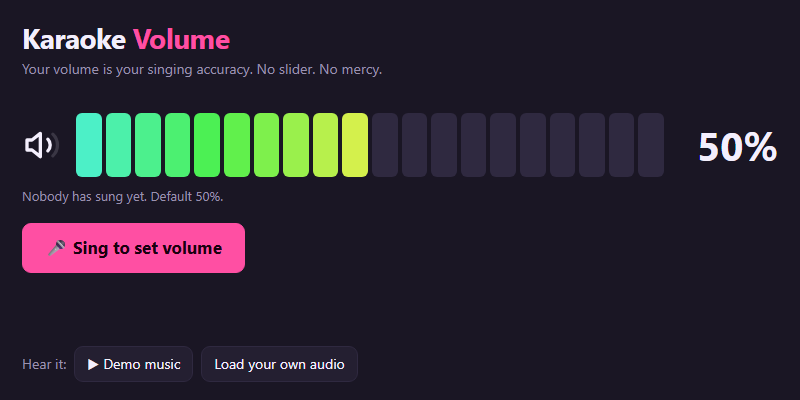
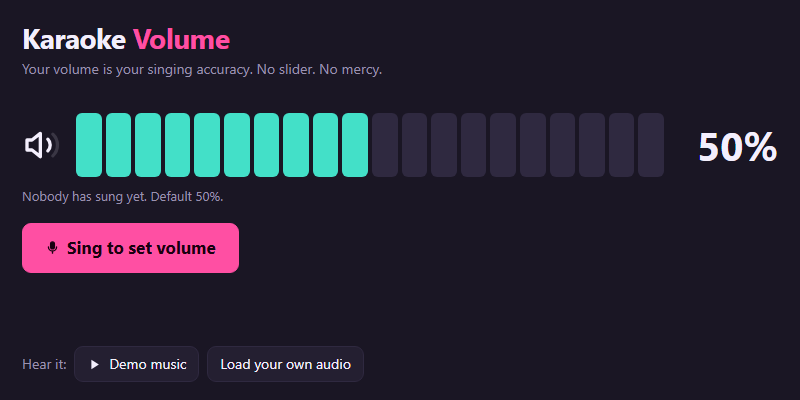
Flatten the visual style
Solid colours instead of the gradient volume bar and per-note hues,
no glows or coloured shadows, 4-12px corners instead of pill shapes,
SVG icons instead of emoji/symbol glyphs, and no subtext under the
song menu items.

Changed region(s): [[0.125, 0.27, 0.4688, 0.45], [0.0625, 0.54, 0.3125, 0.69], [0.0938, 0.9, 0.4375, 0.93]]

diff --git a/index.html b/index.html
@@ -33,6 +33,9 @@ button.small{padding:2px 7px;font-size:11px;border-radius:6px}
 .volrow svg{flex:none;width:40px;height:40px}
 .bar{flex:1;display:flex;gap:4px;cursor:not-allowed;min-width:0}
 .seg{flex:1;height:64px;border-radius:6px;background:var(--line);transition:background .25s}
+.seg.on{background:var(--accent2)}
+.ic{width:15px;height:15px;flex:none;vertical-align:-2px;margin-right:7px}
+button,.btn{display:inline-flex;align-items:center}
 .pct{flex:none;width:100px;text-align:right;font-size:40px;font-weight:750;font-variant-numeric:tabular-nums}
 .volmsg{margin-top:10px;color:var(--mute);font-size:13px;min-height:1.4em}
 .shake{animation:shake .35s}
@@ -40,10 +43,12 @@ button.small{padding:2px 7px;font-size:11px;border-radius:6px}
 .bigbtn{font-size:17px;padding:12px 22px}
 /* picker */
 .songs{flex:1;overflow:auto;display:grid;grid-template-columns:repeat(4,1fr);gap:8px;margin:12px 0 10px;align-content:start;padding-right:2px}
-.song{position:relative;text-align:left;padding:9px 11px;border-radius:10px;background:var(--panel2);border:1px solid var(--line);cursor:pointer;min-height:62px}
+.song{position:relative;text-align:left;padding:9px 11px;border-radius:10px;background:var(--panel2);border:1px solid var(--line);cursor:pointer;min-height:54px;display:flex;align-items:center}
+.song.has-tools{padding-top:26px;align-items:flex-start}
 .song b{display:block;font-size:13px;line-height:1.25}
 .song small{color:var(--mute);font-size:11px}
-.song.sel{border-color:var(--accent);box-shadow:0 0 0 1px var(--accent) inset}
+.song.sel{border:2px solid var(--accent);padding:8px 10px}
+.song.sel.has-tools{padding-top:25px}
 .song.add{border-style:dashed;background:transparent}
 .song .tools{position:absolute;top:5px;right:5px;display:flex;gap:3px}
 .opts{display:flex;flex-wrap:wrap;gap:14px;color:var(--mute);font-size:12px;align-items:center}
@@ -57,12 +62,12 @@ canvas{display:block;width:100%;height:205px;border-radius:10px;background:#120f
 .lyrics .l1{font-size:21px;font-weight:650;white-space:nowrap;overflow:hidden;text-overflow:ellipsis}
 .lyrics .l2{font-size:13px;color:var(--mute);margin-top:2px;white-space:nowrap;overflow:hidden;text-overflow:ellipsis}
 .lyrics span.done{color:var(--accent2)}
-.lyrics span.now{color:var(--accent);text-shadow:0 0 12px rgba(255,79,163,.6)}
+.lyrics span.now{color:var(--accent)}
 .meter{width:110px;height:8px;border-radius:4px;background:var(--line);overflow:hidden}
 .meter i{display:block;height:100%;width:0;background:var(--accent2)}
 /* overlays (inside the stage) */
 .modal{position:absolute;inset:0;background:rgba(5,3,10,.78);display:flex;align-items:center;justify-content:center;padding:14px;z-index:10}
-.dlg{background:var(--panel);border:1px solid var(--line);border-radius:14px;padding:16px 18px;width:100%;max-width:540px;max-height:372px;overflow:auto}
+.dlg{background:var(--panel);border:1px solid var(--line);border-radius:12px;padding:16px 18px;width:100%;max-width:540px;max-height:372px;overflow:auto}
 .big{font-size:68px;font-weight:800;line-height:1;margin:6px 0;color:var(--accent);font-variant-numeric:tabular-nums}
 .dlg label.f{display:block;margin:8px 0 3px;color:var(--mute);font-size:12px}
 .dlg input[type=text],.dlg input[type=number],.dlg textarea{width:100%;font:inherit;color:var(--ink);background:var(--panel2);border:1px solid var(--line);border-radius:8px;padding:6px 9px}
@@ -88,27 +93,27 @@ code{background:var(--panel2);padding:1px 4px;border-radius:4px;font-size:11px}
     </div>
     <div class="volmsg" id="volMsg"></div>
     <div class="row" style="margin-top:18px">
-      <button class="primary bigbtn" id="singBtn">🎤 Sing to set volume</button>
+      <button class="primary bigbtn" id="singBtn"><svg class="ic" viewBox="0 0 24 24" fill="none" stroke="currentColor" stroke-width="2.2" stroke-linecap="round" aria-hidden="true"><rect x="9" y="3" width="6" height="11" rx="3" fill="currentColor"/><path d="M5.5 11a6.5 6.5 0 0 0 13 0M12 17.5V21"/></svg>Sing to set volume</button>
     </div>
     <div class="spacer"></div>
     <div class="row">
       <span class="mute">Hear it:</span>
-      <button id="demoBtn">▶ Demo music</button>
+      <button id="demoBtn"><svg class="ic" viewBox="0 0 24 24" fill="currentColor" aria-hidden="true"><path d="M7 4.5v15l12-7.5z"/></svg>Demo music</button>
       <label class="btn">Load your own audio<input type="file" id="ownFile" accept="audio/*" hidden></label>
-      <button id="ownBtn" hidden>▶ Play</button>
+      <button id="ownBtn" hidden>Play</button>
       <span id="ownName" class="mute" style="max-width:220px;overflow:hidden;text-overflow:ellipsis;white-space:nowrap"></span>
     </div>
   </section>
 
   <section class="screen" id="picker" hidden>
-    <div class="row"><h2>Pick a song</h2><span class="spacer"></span><button id="cancelPick">← Back</button></div>
+    <div class="row"><h2>Pick a song</h2><span class="spacer"></span><button id="cancelPick"><svg class="ic" viewBox="0 0 24 24" fill="none" stroke="currentColor" stroke-width="2.4" stroke-linecap="round" stroke-linejoin="round" aria-hidden="true"><path d="M15 5l-7 7 7 7"/></svg>Back</button></div>
     <div class="songs" id="songs"></div>
     <div class="row">
       <div class="opts">
         <label><input type="checkbox" id="optGuide" checked> Guide melody</label>
         <label>level <input type="range" id="guideLvl" min="0" max="100" value="60"></label>
         <label><input type="checkbox" id="optCount" checked> Count-in</label>
-        <span title="Otherwise the mic hears the guide.">🎧 headphones recommended · any octave counts</span>
+        <span title="Otherwise the mic hears the guide.">Headphones recommended · any octave counts</span>
       </div>
       <span class="spacer"></span>
       <button class="primary" id="startBtn" disabled>Start 30 s clip</button>
@@ -188,6 +193,12 @@ const store = {
   set(k, v){ try{ localStorage.setItem(k, JSON.stringify(v)); }catch(e){} }
 };
 
+const svgI = d => `<svg class="ic" viewBox="0 0 24 24" fill="currentColor" aria-hidden="true">${d}</svg>`;
+const ICON = {
+  play: svgI('<path d="M7 4.5v15l12-7.5z"/>'),
+  stop: svgI('<rect x="6" y="6" width="12" height="12" rx="1.5"/>'),
+  pause: svgI('<rect x="6" y="5" width="4" height="14" rx="1"/><rect x="14" y="5" width="4" height="14" rx="1"/>')
+};
 function showScreen(id){ for(const k of ['home', 'picker', 'singView']) $(k).hidden = k !== id; }
 let toastTimer;
 function toast(html, ms = 4000){
@@ -350,10 +361,7 @@ const SEGS = 20;
 for(let i = 0; i < SEGS; i++){ const s = document.createElement('div'); s.className = 'seg'; bar.appendChild(s); }
 function renderVolume(){
   const segs = bar.children, on = Math.round(volume / 100 * SEGS);
-  for(let i = 0; i < SEGS; i++){
-    const hue = 165 - (i / (SEGS - 1)) * 200;   // teal -> pink
-    segs[i].style.background = i < on ? `hsl(${(hue + 360) % 360} 85% 62%)` : '';
-  }
+  for(let i = 0; i < SEGS; i++) segs[i].classList.toggle('on', i < on);
   $('pct').textContent = Math.round(volume) + '%';
   bar.setAttribute('aria-valuenow', Math.round(volume));
   $('w1').style.opacity = volume > 0 ? 1 : .15;
@@ -396,18 +404,18 @@ async function toggleDemo(force){
   ensureCtx();
   if(demoSrc || force === false){
     if(demoSrc){ try{ demoSrc.stop(); }catch(e){} demoSrc = null; }
-    $('demoBtn').textContent = '▶ Demo music'; return;
+    $('demoBtn').innerHTML = ICON.play + 'Demo music'; return;
   }
   pauseOwn();
   if(!demoBuf) demoBuf = await makeDemo();
   demoSrc = ctx.createBufferSource(); demoSrc.buffer = demoBuf; demoSrc.loop = true;
   demoSrc.connect(master); demoSrc.start();
-  $('demoBtn').textContent = '■ Stop demo';
+  $('demoBtn').innerHTML = ICON.stop + 'Stop demo';
 }
 $('demoBtn').onclick = () => toggleDemo();
 
 const ownEl = new Audio(); let ownNode = null;
-ownEl.onended = () => { $('ownBtn').textContent = '▶ Play'; };
+ownEl.onended = () => { $('ownBtn').innerHTML = ICON.play + 'Play'; };
 $('ownFile').onchange = e => {
   const f = e.target.files[0]; if(!f) return;
   ensureCtx();
@@ -415,12 +423,12 @@ $('ownFile').onchange = e => {
   if(ownEl.src) URL.revokeObjectURL(ownEl.src);
   ownEl.src = URL.createObjectURL(f);
   $('ownName').textContent = f.name; $('ownBtn').hidden = false;
-  toggleDemo(false); ownEl.play(); $('ownBtn').textContent = '❚❚ Pause';
+  toggleDemo(false); ownEl.play(); $('ownBtn').innerHTML = ICON.pause + 'Pause';
 };
-function pauseOwn(){ if(!ownEl.paused){ ownEl.pause(); } $('ownBtn').textContent = '▶ Play'; }
+function pauseOwn(){ if(!ownEl.paused){ ownEl.pause(); } $('ownBtn').innerHTML = ICON.play + 'Play'; }
 $('ownBtn').onclick = () => {
   ensureCtx();
-  if(ownEl.paused){ toggleDemo(false); ownEl.play(); $('ownBtn').textContent = '❚❚ Pause'; } else pauseOwn();
+  if(ownEl.paused){ toggleDemo(false); ownEl.play(); $('ownBtn').innerHTML = ICON.pause + 'Pause'; } else pauseOwn();
 };
 
 /* ---------- song picker ---------- */
@@ -435,16 +443,11 @@ function renderSongs(){
   for(const s of allSongs()){
     const b = document.createElement('div');
     b.className = 'song' + (s.id === selectedId ? ' sel' : ''); b.tabIndex = 0;
-    let meta;
-    if(s.kind === 'audio') meta = `From audio file · starts at ${s.offset}s`;
-    else {
-      const {notes} = parseSrc(s.src); const ms = notes.filter(n => n.midi != null).map(n => n.midi);
-      meta = `${s.bpm} BPM · ${ms.length ? midiName(Math.min(...ms)) + '–' + midiName(Math.max(...ms)) : 'empty'}`;
-    }
-    b.innerHTML = `<b>${esc(s.title)}</b><small>${esc(s.artist || 'You')}<br>${esc(meta)}</small>`;
+    b.innerHTML = `<b>${esc(s.title)}</b>`;
     if(s.custom){
+      b.classList.add('has-tools');
       const t = document.createElement('div'); t.className = 'tools';
-      t.innerHTML = '<button class="small" data-a="edit">edit</button><button class="small" data-a="del">✕</button>';
+      t.innerHTML = '<button class="small" data-a="edit">edit</button><button class="small" data-a="del">delete</button>';
       t.onclick = ev => {
         ev.stopPropagation(); const a = ev.target.dataset.a;
         if(a === 'edit') openEditor(s);
@@ -461,10 +464,10 @@ function renderSongs(){
     el.appendChild(b);
   }
   const add = document.createElement('button'); add.className = 'song add';
-  add.innerHTML = '<b>+ Write your own</b><small>Type in notes & lyrics</small>';
+  add.innerHTML = '<b>+ Write your own</b>';
   add.onclick = () => openEditor(null); el.appendChild(add);
   const aud = document.createElement('button'); aud.className = 'song add';
-  aud.innerHTML = '<b>+ Any song (audio file)</b><small>Extract the melody from a vocal track</small>';
+  aud.innerHTML = '<b>+ Any song (audio file)</b>';
   aud.onclick = () => { $('adErr').textContent = ''; $('audioDlg').hidden = false; }; el.appendChild(aud);
   $('startBtn').disabled = !songById(selectedId);
 }
@@ -618,7 +621,7 @@ async function startSession(){
   showScreen('singView');
   $('stTitle').textContent = song.title; $('stSub').textContent = song.artist ? '· ' + song.artist : '';
   $('liveAcc').textContent = '–';
-  if(song.kind === 'audio') setLyrics('♪ No lyrics, just follow the bars ♪', '');
+  if(song.kind === 'audio') setLyrics('No lyrics, just follow the bars', '');
   sizeCanvas();
   S.raf = requestAnimationFrame(loop);
   S.timer = setInterval(tick, 20);
@@ -741,10 +744,10 @@ function draw(now){
   for(const e of S.evs){
     const x0 = x(e.t0), x1 = x(e.t1); if(x1 < 0 || x0 > W) continue;
     let fill;
-    if(e.t1 <= now && e.w > 0){ const q = e.hit / e.w; fill = `hsl(${Math.round(q * 140)} 75% 55% / .85)`; }
+    if(e.t1 <= now && e.w > 0){ const q = e.hit / e.w; fill = q >= 0.66 ? '#43e0c8' : q >= 0.33 ? '#e8c35a' : '#ff5d5d'; }
     else if(now >= e.t0 && now < e.t1) fill = '#ff4fa3';
-    else fill = 'rgba(255,255,255,.2)';
-    g.fillStyle = fill; rr(g, x0 + 1, y(e.midi) - nh / 2, Math.max(2, x1 - x0 - 2), nh, nh / 2); g.fill();
+    else fill = '#3a3350';
+    g.fillStyle = fill; rr(g, x0 + 1, y(e.midi) - nh / 2, Math.max(2, x1 - x0 - 2), nh, 4); g.fill();
   }
   // sung trace
   g.lineWidth = 3; g.lineCap = 'round'; g.lineJoin = 'round';
